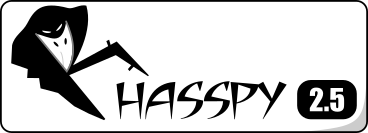
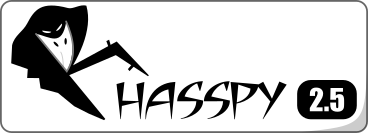
Update docs with ASR confidence info

Changed region(s): [[0.0, 0.0, 1.0, 1.0]]

diff --git a/docs/speech-to-text.md b/docs/speech-to-text.md
@@ -19,14 +19,14 @@ The following table summarizes language support for the various speech to text s
 | de        | &#x2713;                                         | &#x2713;                           | &#x2713;                                     |
 | el        | &#x2713;                                         |                                    |                                              |
 | en        | &#x2713;                                         | &#x2713;                           | &#x2713;                                     |
-| es        | &#x2713;                                         |                                    |                                              |
-| fr        | &#x2713;                                         | &#x2713;                           |                                              |
+| es        | &#x2713;                                         | &#x2713;                           | &#x2713;                                     |
+| fr        | &#x2713;                                         | &#x2713;                           | &#x2713;                                     |
 | hi        | &#x2713;                                         |                                    |                                              |
-| it        | &#x2713;                                         |                                    |                                              |
+| it        | &#x2713;                                         | &#x2713;                           | &#x2713;                                     |
 | nl        | &#x2713;                                         | &#x2713;                           |                                              |
 | pl        |                                                  | &#x2713;                           | &#x2713;                                     |
-| pt        | &#x2713;                                         |                                    |                                              |
-| ru        | &#x2713;                                         |                                    |                                              |
+| pt        | &#x2713;                                         |                                    | &#x2713;                                     |
+| ru        | &#x2713;                                         | &#x2713;                           |                                              |
 | sv        |                                                  | &#x2713;                           |                                              |
 | vi        |                                                  | &#x2713;                           |                                              |
 | zh        | &#x2713;                                         |                                    |                                              |
@@ -73,6 +73,27 @@ where:
 * `max_energy` - if not set, max energy is computed for every audio frame; otherwise, this fixed value is used
 
 Implemented by [rhasspy-silence](https://github.com/rhasspy/rhasspy-silence)
+
+## ASR Confidence
+
+Each ASR system reports word-level and overall sentence confidences (see `asrTokens` in [asr/textCaptured](reference.md#asr_textcaptured)).
+
+* Pocketsphinx
+    * Sentence confidence is `exp(p)` where `p` is the hypothesis probability
+    * Word confidences are `exp(p)` where `p` is the segment probability
+* Kaldi
+    * Sentence confidence is the result of [MinimumBayesRisk.GetBayesRisk](http://kaldi-asr.org/doc/classkaldi_1_1MinimumBayesRisk.html#a0c65227b9d5ba270428cdc3f55edf682)
+    * Word confidences are the result of [MinimumBayesRisk.GetOneBestConfidences](http://kaldi-asr.org/doc/classkaldi_1_1MinimumBayesRisk.html#a535b2836b20009fb6c5e8dcdfefb356c)
+    * See [online2-cli-nnet3-decode-faster-confidence.cc](https://github.com/rhasspy/rhasspy-asr-kaldi/blob/master/etc/online2-cli-nnet3-decode-faster-confidence.cc)
+* DeepSpeech
+    * Sentence confidence is `exp(c)` where `c` is the [metadata confidence value](https://deepspeech.readthedocs.io/en/latest/Python-API.html#native_client.python.CandidateTranscript.confidence)
+    * Word confidences are always set to 1
+    
+The [rhasspy-dialogue-hermes](https://github.com/rhasspy/rhasspy-dialogue-hermes) will use the value of `speech_to_text.<SYSTEM>.min_confidence` to decide when a voice command should be rejected as not recognized (where `<SYSTEM>` is `pocketsphinx`, `kaldi`, or `deepspeech`). This is set to 0 by default, **allowing all voice commands through**.
+
+In the web interface, look for "Minimum Confidence" in the settings for your speech to text system:
+
+![Minimum ASR confidence setting](img/min-asr-confidence.png)
 
 ## MQTT/Hermes
 

diff --git a/docs/reference.md b/docs/reference.md
@@ -148,6 +148,14 @@ Messages for [speech to text](speech-to-text.md).
     * `siteId: string = "default"` - Hermes site ID
     * `sessionId: string? = null` - current session ID
     * `wakewordId: string? = null` - id of wake word that triggered session (Rhasspy only)
+    * `asrTokens: [[object]]? = null` - details of individual tokens (words) in captured text (also see [ASR confidence](speech-to-text.md#asr-confidence), note that list is two levels deep)
+        * `value: string` - text of the token
+        * `confidence: float` - confidence score of token (0-1, 1 is more confident)
+        * `rangeStart: int` - start index of token in input (0-based)
+        * `rangeEnd: int` - end index of token in input (0-based)
+        * `time: object` - structured time of when token was detected
+            * `start: float` - start time in seconds (relative to start of utterance)
+            * `end: float` - end time in seconds (relative to start of utterance)
 * <a id="asr_error"><tt>hermes/error/asr</tt></a> (JSON)
     * Sent when an error occurs in the ASR system
     * `error: string` - description of the error
@@ -343,6 +351,7 @@ Messages for [intent handling](intent-handling.md).
     * `id: string? = null` - unique id for request (copied to response messages)
     * `siteId: string = "default"` - Hermes site ID
     * `sessionId: string? = null` - current session ID
+    * `asrConfidence: float? = null` - confidence from ASR system for input text
     * Response(s)
         * [`hermes/nlu/intent/<intentName>`](#nlu_intent)
         * [`hermes/nlu/intentNotRecognized`](#nlu_intentnotrecognized)

diff --git a/docs/index.md b/docs/index.md
@@ -1,6 +1,6 @@
 # Rhasspy Voice Assistant
 
-![Rhasspy 2.5 logo](img/rhasspy25.png)
+![Rhasspy 2.5 logo](img/rhasspy25-noborder.png)
 
 Rhasspy (pronounced RAH-SPEE) is an [open source](https://github.com/rhasspy), fully offline set of [voice assistant services](#services) for [many human languages](#supported-languages) that works well with:
 

diff --git a/docs/license.md b/docs/license.md
@@ -9,7 +9,7 @@ Please see the individual licenses for the [supporting tools](about.md#supportin
 
 ## MIT License
 
-Copyright 2020 Michael Hansen
+Copyright 2020-2021 Michael Hansen
 
 Permission is hereby granted, free of charge, to any person obtaining a copy of
 this software and associated documentation files (the "Software"), to deal in
